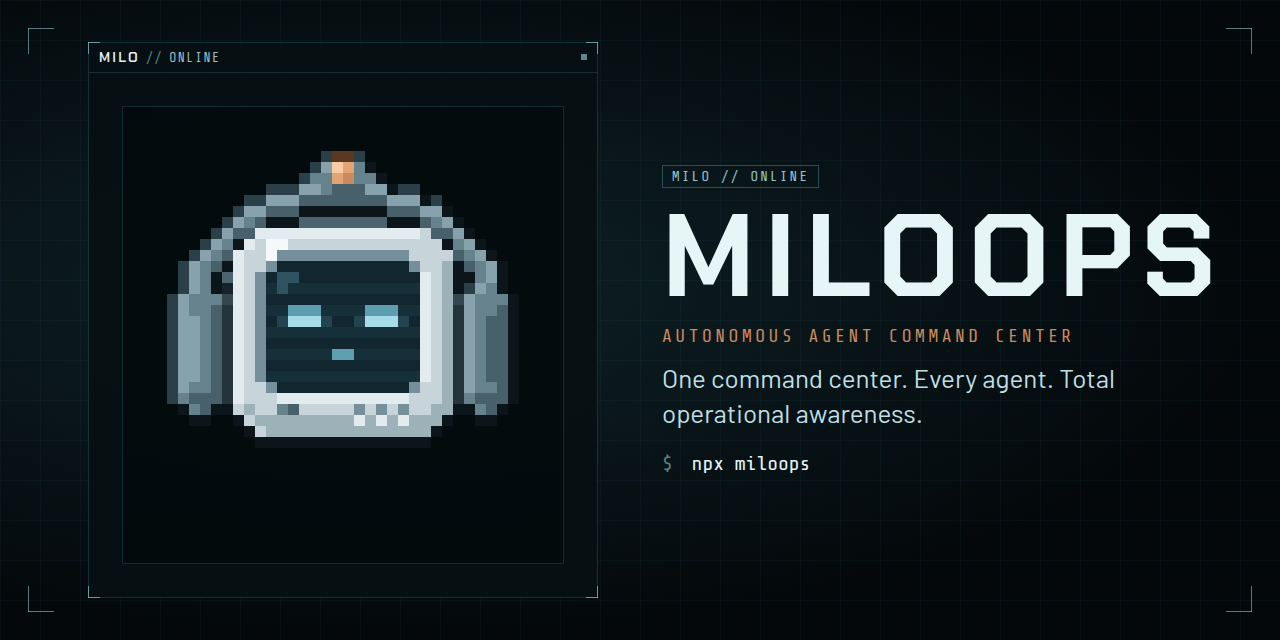
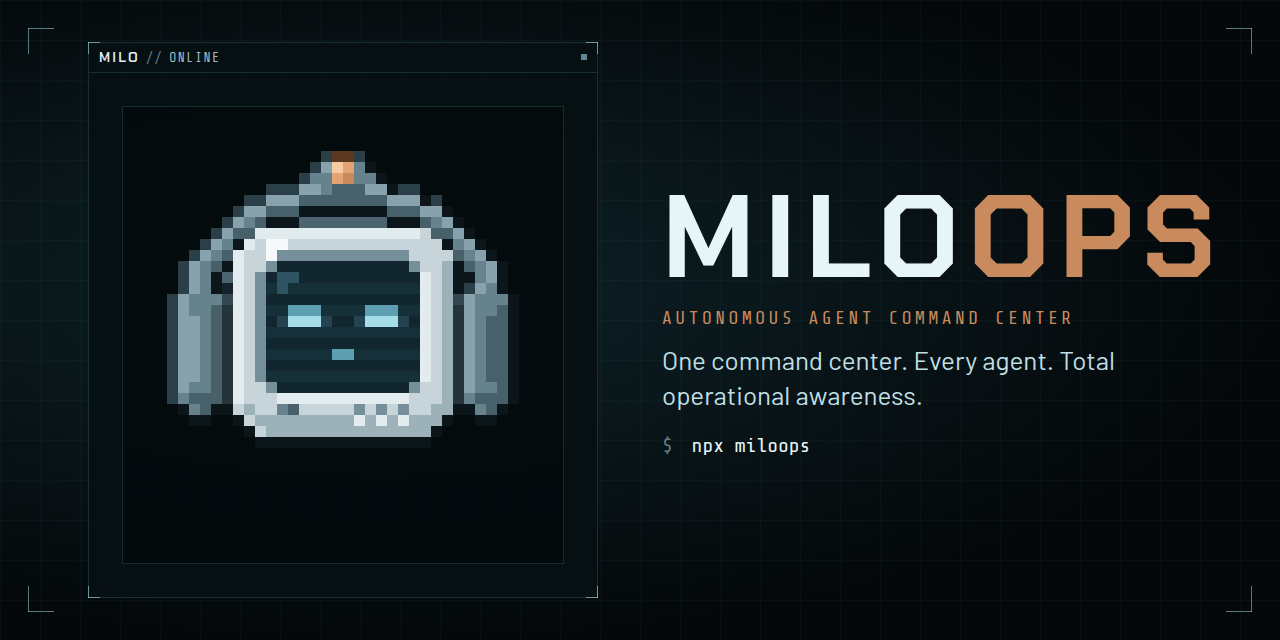
Two-tone MILO/OPS wordmark, drop duplicated labels, re-render brand kit
- Wordmark: MILO in the light tone, OPS in MILO's antenna copper (#c98b5e) via a
  shared --brand-ops token and .wordmark-ops class in the landing and command
  center; BRAND.wordmark in core; single WORDMARK parameter in the brand generator.
- Brand kit: remove the 'MILO // ONLINE' chip above the banner wordmark (the
  avatar frame header already says it); re-render brand/ and the landing OG image.
- Command center: demo tracker label 'Demo' (was 'TRACKER · DEMO TRACKER' and
  'tracker demo tracker'); Decisions view title shows a count only when filtered.
- Landing: open-source card chip 'MIT license' instead of repeating 'Free · open source'.
- capture.mjs resolves fonts from hoisted node_modules.

Changed region(s): [[0.5, 0.25, 0.9688, 0.75]]

diff --git a/packages/milo-avatar/preview/main.tsx b/packages/milo-avatar/preview/main.tsx
@@ -17,6 +17,13 @@ const LINES = {
 const SPEAK_AT = 1500;
 const ORDER: MiloStyleId[] = ['crt', 'mono'];
 const TAGLINE = 'One command center. Every agent. Total operational awareness.';
+/** Banner wordmark; override with `?wordmark=` (capture: WORDMARK env). Text after `|` renders in the brand copper (`.wordmark-ops`). */
+const WORDMARK = 'MILO|OPS';
+
+function Wordmark({ text }: { text: string }) {
+  const [lead, tone] = text.split('|');
+  return <div className="wordmark">{lead}{tone && <span className="wordmark-ops">{tone}</span>}</div>;
+}
 
 function Options() {
   return (
@@ -164,7 +171,7 @@ function Favicon({ px }: { px: number }) {
 }
 
 /** card: social preview / Open Graph; header: X profile header (avatar overlaps bottom-left, so content sits right). */
-function Banner({ w, h, layout, url }: { w: number; h: number; layout: 'card' | 'header'; url?: string }) {
+function Banner({ w, h, layout, url, wordmark }: { w: number; h: number; layout: 'card' | 'header'; url?: string; wordmark: string }) {
   const u = h / 640;
   const rows = composeFrame(STYLES.crt.art, { eyes: 'open', mouth: 'rest' });
   return (
@@ -173,8 +180,7 @@ function Banner({ w, h, layout, url }: { w: number; h: number; layout: 'card' | 
         <div className="banner-feed"><MiloAvatar variant="crt" size={Math.floor(11 * u)} state="idle" at={0} caption={false} /></div>
       ) : null}
       <div className="banner-copy">
-        <div className="social-chip">MILO // ONLINE</div>
-        <div className="wordmark">MILOOPS</div>
+        <Wordmark text={wordmark} />
         <div className="social-cat">Autonomous Agent Command Center</div>
         <div className="social-tag">{TAGLINE}</div>
         <div className="social-cmd"><span>$</span> npx miloops{url && <em>{url}</em>}</div>
@@ -225,7 +231,7 @@ function App() {
   if (view === 'demo') return <Demo variant={variant} />;
   if (view === 'square') return <BrandSquare n={Number(q.get('n') || 512)} />;
   if (view === 'favicon') return <Favicon px={Number(q.get('px') || 64)} />;
-  if (view === 'banner') return <Banner w={Number(q.get('w') || 1280)} h={Number(q.get('h') || 640)} layout={(q.get('layout') as 'card' | 'header') || 'card'} url={q.get('url') || undefined} />;
+  if (view === 'banner') return <Banner w={Number(q.get('w') || 1280)} h={Number(q.get('h') || 640)} layout={(q.get('layout') as 'card' | 'header') || 'card'} url={q.get('url') || undefined} wordmark={q.get('wordmark') || WORDMARK} />;
   return <Playground />;
 }
 

diff --git a/apps/landing/index.html b/apps/landing/index.html
@@ -49,7 +49,7 @@
       <div class="wrap nav__inner">
         <a class="brand" href="#top" aria-label="MILOOPS home">
           <svg class="brand__mark" aria-hidden="true"><use href="#mark" /></svg>
-          <span class="brand__name">MILOOPS</span>
+          <span class="brand__name">MILO<span class="wordmark-ops">OPS</span></span>
         </a>
         <nav class="nav__links" aria-label="Primary">
           <a href="#how">How it works</a>
@@ -428,7 +428,7 @@
             <article class="plan plan--now reveal">
               <div class="plan__head">
                 <h3>What you get</h3>
-                <span class="label label--ok">Free · open source</span>
+                <span class="label label--ok">MIT license</span>
               </div>
               <ul>
                 <li>The full command center, on any screen</li>
@@ -548,7 +548,7 @@
         <div class="footer__brand">
           <a class="brand" href="#top" aria-label="MILOOPS home">
             <svg class="brand__mark" aria-hidden="true"><use href="#mark" /></svg>
-            <span class="brand__name">MILOOPS</span>
+            <span class="brand__name">MILO<span class="wordmark-ops">OPS</span></span>
           </a>
           <p>One command center. Every agent. Total operational awareness.</p>
         </div>

diff --git a/apps/command-center/src/styles.css b/apps/command-center/src/styles.css
@@ -29,6 +29,8 @@
   --urgent: #ff4d42;
   --urgent-bg: rgba(255, 77, 66, 0.1);
   --amber: rgb(var(--amber-rgb));
+  /* "OPS" half of the wordmark: MILO's antenna copper, shared with the brand kit. */
+  --brand-ops: #c98b5e;
 
   /* Option C "Hardware HUD" (src/fonts.ts). --display: headings; --mono: caps labels and readouts; --sans: body. */
   --display: 'Chakra Petch', sans-serif;
@@ -119,6 +121,7 @@ code { font-family: var(--mono); font-size: var(--fs-sm); color: var(--text-hi);
 .header { grid-area: header; display: flex; align-items: center; gap: 16px; padding: 0 var(--gutter); }
 .h-brand { color: var(--accent); display: flex; align-items: center; gap: var(--sp-10); padding-right: 16px; border-right: 1px solid var(--line); height: 38px; }
 .wordmark { font-family: var(--display); font-weight: 300; font-size: var(--fs-heading); letter-spacing: var(--ls-brand); text-transform: uppercase; color: var(--text-hi); }
+.wordmark-ops { color: var(--brand-ops); }
 .h-title { min-width: 0; flex: 1; display: flex; flex-direction: column; gap: 3px; }
 .h-line1 { display: flex; align-items: baseline; gap: var(--sp-8); min-width: 0; }
 .repo { color: var(--dim); font-family: var(--mono); font-size: var(--fs-sm); letter-spacing: var(--ls-data); white-space: nowrap; }

diff --git a/apps/command-center/src/components/Settings.tsx b/apps/command-center/src/components/Settings.tsx
@@ -5,7 +5,7 @@ import { Tabs } from './Hud';
 import { NEXT, RELEASES } from '../changelog';
 import type { Prefs, TrackerChoice } from '../prefs';
 import { MiloMark } from './MiloMark';
-import { Button, Choice, Label, Meta, Panel } from './ui';
+import { Button, Choice, Label, Meta, Panel, Wordmark } from './ui';
 import { TrackerConnectors, switchTracker, trackerApi, useTrackerSettings } from './TrackerSetup';
 
 function TranscriptChoice(props: { value: HitlTranscriptMode; onChange: (v: HitlTranscriptMode) => void }) {
@@ -189,7 +189,7 @@ export function Onboarding(props: { prefs: Prefs; update: (p: Partial<Prefs>) =>
       <Panel as="div" className="dialog onboarding">
         <div className="onb-brand">
           <MiloMark size={40} />
-          <div className="onb-title">{BRAND.name}</div>
+          <Wordmark as="div" className="onb-title" />
         </div>
         <div className="onb-cat mono-label">{BRAND.category}</div>
         <p className="onb-tagline">{BRAND.tagline}</p>

diff --git a/packages/milo-avatar/preview/preview.css b/packages/milo-avatar/preview/preview.css
@@ -107,8 +107,8 @@ body {
 .banner .milo-head { font-size: 13px; }
 .banner .milo-name { font-size: 14px; }
 .banner-copy { display: flex; flex-direction: column; gap: calc(var(--u) * 14); }
-.social-chip { align-self: flex-start; padding: 3px 9px; font-family: var(--mono); font-size: calc(var(--u) * 14); letter-spacing: 0.16em; color: #8fc4ce; border: 1px solid var(--line2); }
 .wordmark { font-family: var(--display); font-weight: 700; font-size: calc(var(--u) * 116); line-height: 0.95; letter-spacing: 0.08em; color: var(--text-hi); }
+.wordmark-ops { color: #c98b5e; }
 .social-cat { font-family: var(--mono); font-size: calc(var(--u) * 18); letter-spacing: 0.2em; text-transform: uppercase; color: #c98b5e; }
 .social-tag { max-width: calc(var(--u) * 560); font-size: calc(var(--u) * 26); line-height: 1.35; color: var(--text); }
 .banner.header .social-tag { max-width: calc(var(--u) * 820); }

diff --git a/apps/command-center/src/components/Header.tsx b/apps/command-center/src/components/Header.tsx
@@ -2,7 +2,7 @@ import { useEffect, useRef, useState } from 'react';
 import { BRAND, eventPulse, missionProgress, type ActivityState, type MapDoc, type MapSnapshot, type TrackerHealth } from '@miloops-hq/core';
 import { Bars, dur, hms, useNow } from './Hud';
 import { MiloMark, type MarkState } from './MiloMark';
-import { Badge, Button, Label, Panel, Readout } from './ui';
+import { Badge, Button, Label, Panel, Readout, Wordmark } from './ui';
 
 export function Header(props: {
   repo: string;
@@ -30,7 +30,7 @@ export function Header(props: {
     <Panel as="header" className="header">
       <div className="h-brand">
         <MiloMark size={28} className="logo" title={BRAND.name} />
-        <span className="wordmark">{BRAND.name}</span>
+        <Wordmark className="wordmark" />
       </div>
       <div className="h-title">
         <div className="h-line1">

diff --git a/apps/command-center/src/components/ui.tsx b/apps/command-center/src/components/ui.tsx
@@ -1,6 +1,17 @@
 import { forwardRef, type ButtonHTMLAttributes, type CSSProperties, type ElementType, type FormEvent, type MouseEvent, type ReactNode, type TextareaHTMLAttributes } from 'react';
+import { BRAND } from '@miloops-hq/core';
 
 const cx = (...c: (string | false | undefined | null)[]) => c.filter(Boolean).join(' ');
+
+/** Two-tone product wordmark; `className` sets the size and tracking. */
+export function Wordmark({ as: Tag = 'span', className }: { as?: ElementType; className?: string }) {
+  return (
+    <Tag className={className}>
+      {BRAND.wordmark.lead}
+      <span className="wordmark-ops">{BRAND.wordmark.ops}</span>
+    </Tag>
+  );
+}
 
 export type ButtonVariant = 'default' | 'primary' | 'ghost' | 'danger' | 'urgent';
 

diff --git a/apps/landing/src/styles.css b/apps/landing/src/styles.css
@@ -16,6 +16,8 @@
   --action-hi: #d29a74;
   --ok: #7fae9a;
   --warn: #ff4d42;
+  /* "OPS" half of the wordmark: MILO's antenna copper, shared with the brand kit. */
+  --brand-ops: #c98b5e;
 
   --display: 'Chakra Petch', 'Barlow', system-ui, sans-serif;
   --mono: 'Share Tech Mono', ui-monospace, SFMono-Regular, Menlo, monospace;
@@ -262,6 +264,10 @@ code {
   font-weight: 400;
   letter-spacing: 0.38em;
   color: var(--text-hi);
+}
+
+.wordmark-ops {
+  color: var(--brand-ops);
 }
 
 .nav__links {

diff --git a/packages/core/src/brand.ts b/packages/core/src/brand.ts
@@ -9,6 +9,8 @@ export const BRAND = {
   slug,
   /** Display name for HUD headings. */
   name: 'MILOOPS',
+  /** Two-tone wordmark: `lead + ops` spells `name`; `ops` renders in the brand amber. */
+  wordmark: { lead: 'MILO', ops: 'OPS' },
   category: 'Autonomous Agent Command Center',
   tagline: 'One command center. Every agent. Total operational awareness.',
   /** The platform's own voice: coordinator/system lines and onboarding. Worker agents keep their own ids. */

diff --git a/apps/command-center/src/components/Decisions.tsx b/apps/command-center/src/components/Decisions.tsx
@@ -74,7 +74,7 @@ export function DecisionsView(props: {
           </button>
         ) : (
           <Label as="h2">
-            Decisions <span className="n">{rows.length === all.length ? all.length : `${rows.length}/${all.length}`}</span>
+            Decisions {rows.length !== all.length && <span className="n">{`${rows.length}/${all.length}`}</span>}
           </Label>
         )}
         {bp !== 'mobile' && <Readouts stats={stats} />}

diff --git a/apps/command-center/src/runtime.ts b/apps/command-center/src/runtime.ts
@@ -124,7 +124,7 @@ export function createRuntime(kind: TrackerKind) {
         linkAgents(activity);
       });
   } else {
-    const mem = new MemoryAdapter({ label: 'Demo tracker', location: 'in-memory · resets on reload' });
+    const mem = new MemoryAdapter({ label: 'Demo', location: 'in-memory · resets on reload' });
     const demo = demoSnapshot();
     mem.seed(demo);
     const latency = mem.latency;

diff --git a/packages/core/src/adapters/memory.ts b/packages/core/src/adapters/memory.ts
@@ -32,7 +32,7 @@ export class MemoryAdapter implements TrackerAdapter {
   constructor(opts: MemoryAdapterOptions = {}) {
     this.latency = opts.latency ?? [40, 160];
     this.next = opts.startNumber ?? 1;
-    this.label = opts.label ?? 'Demo tracker';
+    this.label = opts.label ?? 'Demo';
     this.location = opts.location ?? 'mock://demo';
   }
 
